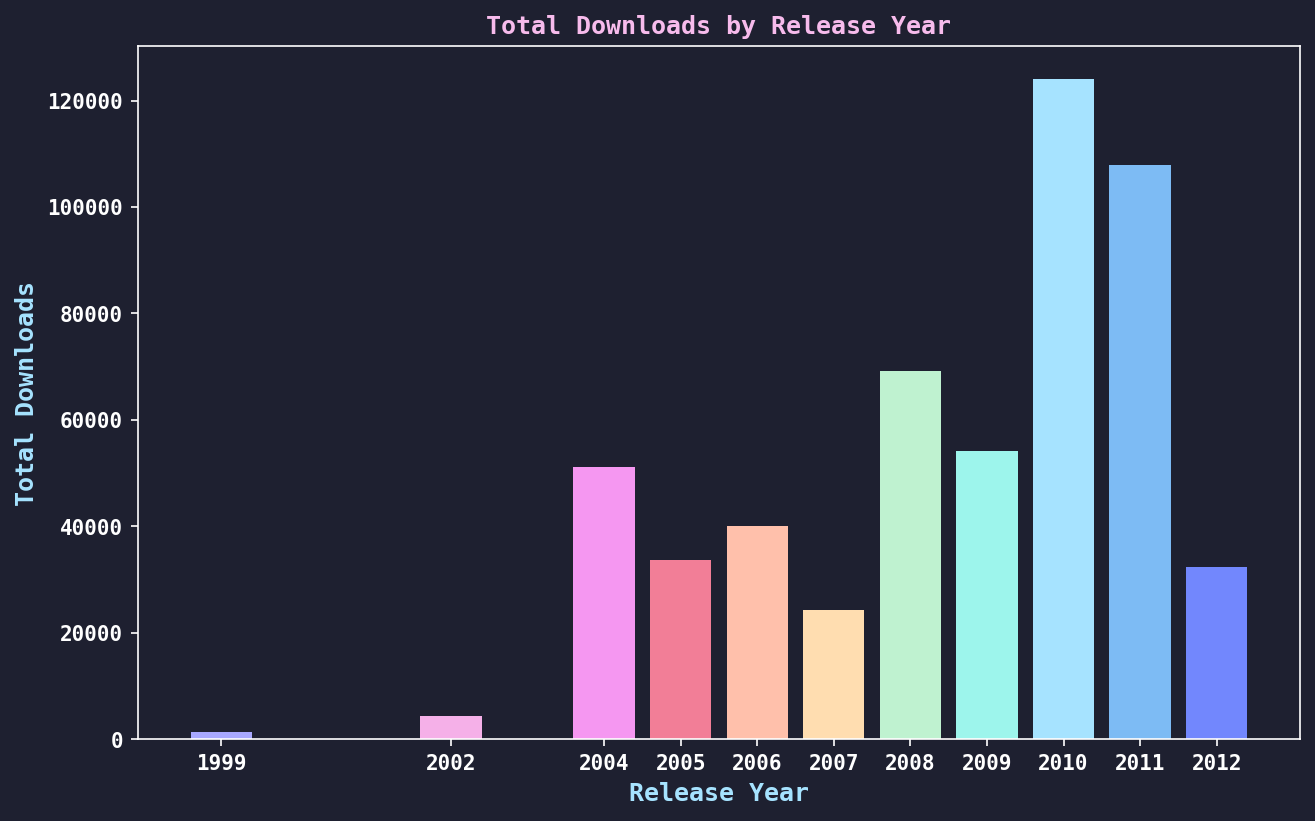
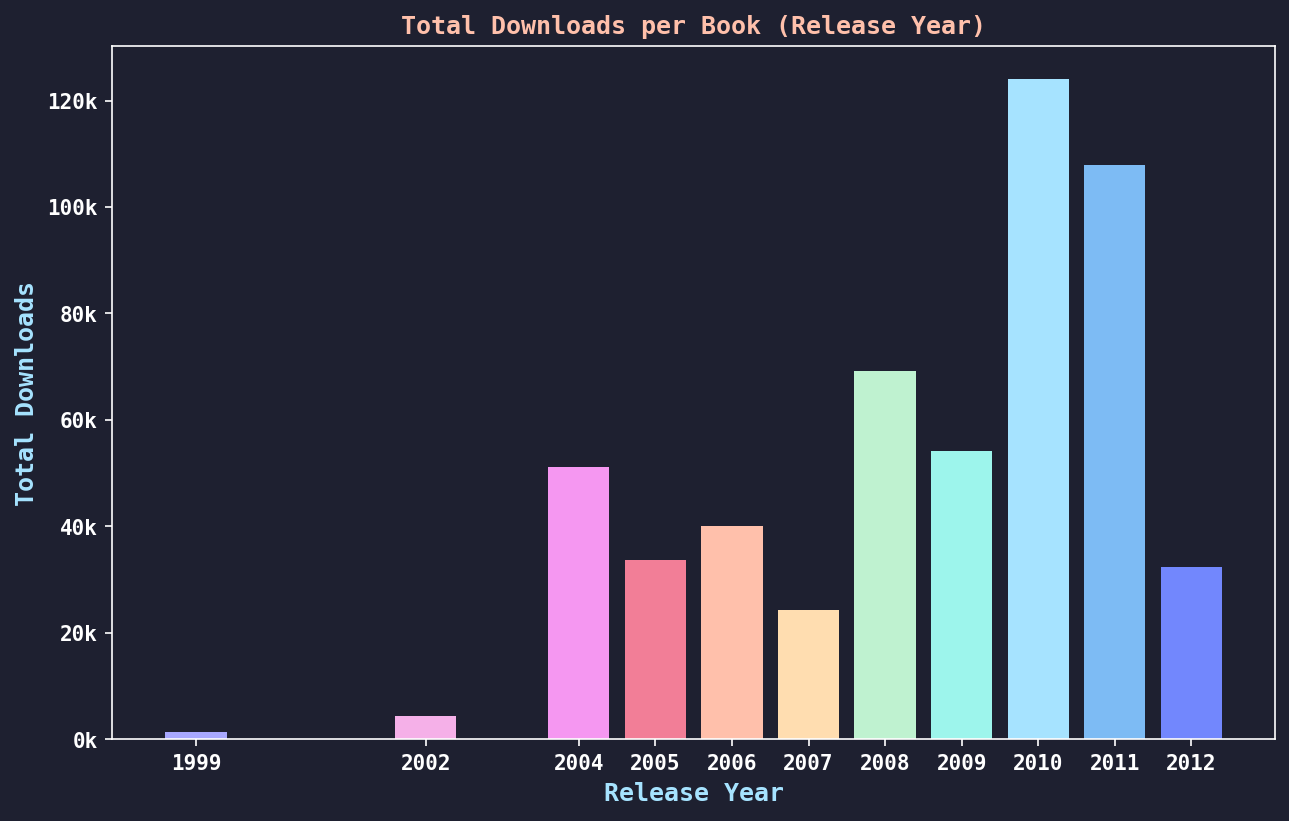
feat: add matplotlib charts for ebook analysis

diff --git a/02 - E-Book Dataset Analysis/README.md b/02 - E-Book Dataset Analysis/README.md
@@ -2,6 +2,7 @@
 String parsing and data manipulation in Python using a Project Gutenberg eBook dataset. Covers string slicing/splitting, custom sorting functions, dictionary aggregation, and list manipulation.
 
 **Final grade:** 100%
-<div align="center">
-  <img src="src/output/yearly_downloads.png" alt="Yearly Downloads" width="48%">
+<div style="display: flex; gap: 16px;">
+  <img src="src/output/yearly_downloads.png" alt="Yearly Downloads Bar Chart" width="48%">
+  <img src="src/output/downloads_scatter.png" alt="Yearly Downloads Scatter Plot" width="48%">
 </div>
